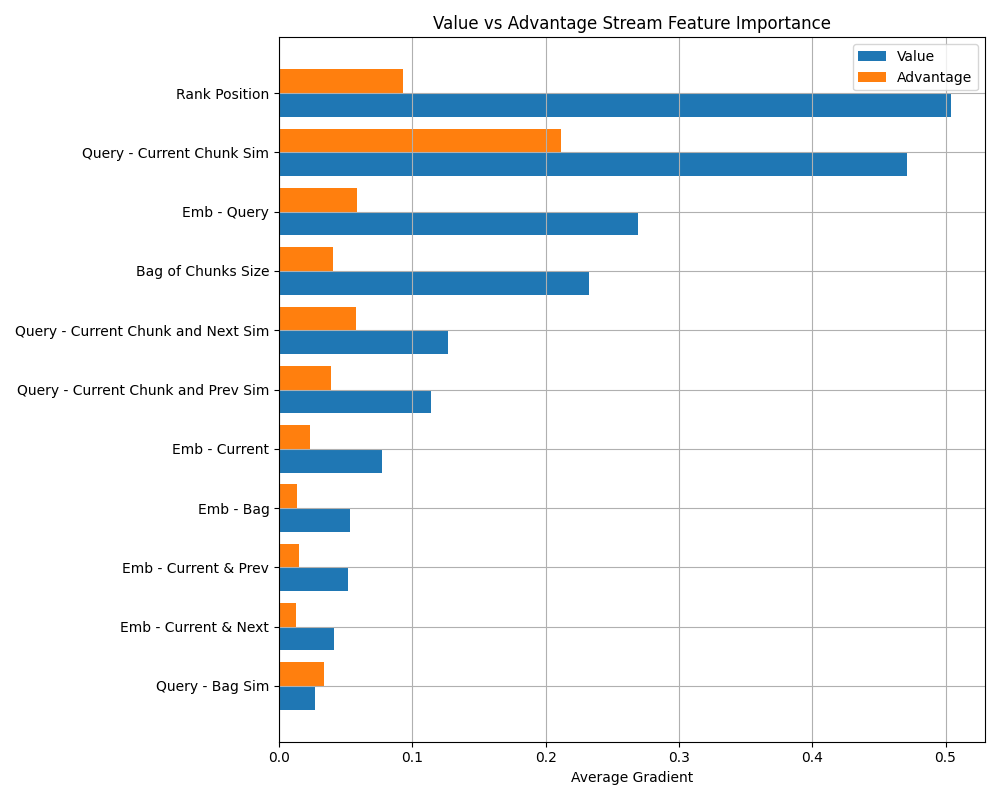
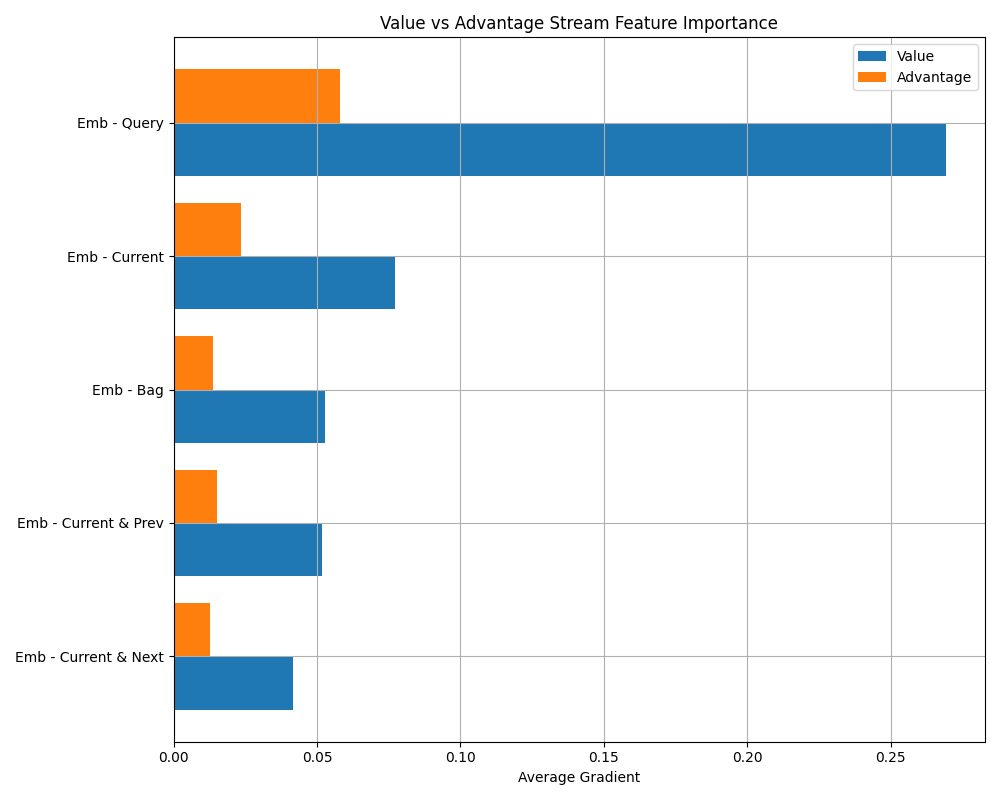
good boy

diff --git a/retrieval/retrieval_5_2_rl_test.py b/retrieval/retrieval_5_2_rl_test.py
@@ -19,8 +19,7 @@ now_str = datetime.now().strftime("%Y-%m-%d %H:%M:%S")
 random.seed(39)
 torch.manual_seed(39)
 
-
-def compute_stream_feature_importance(online_net, data, query_ids, device, max_exp_loops, n_samples=1000):
+def compute_stream_ablation_importance(online_net, data, query_ids, device, max_exp_loops, n_samples=1000):
     import os
     online_net.eval()
 
@@ -29,6 +28,166 @@ def compute_stream_feature_importance(online_net, data, query_ids, device, max_e
         "Bag of Chunks Size",
         "Query - Current Chunk Sim", "Query - Current Chunk and Next Sim", "Query - Bag Sim", "Query - Current Chunk and Prev Sim"
     ]
+    emb_group_names = ["Emb - Current", "Emb - Current & Next", "Emb - Current & Prev", "Emb - Query", "Emb - Bag"]
+
+    sample_n = min(len(query_ids), n_samples)
+    sampled_qids = random.sample(list(query_ids), sample_n)
+
+    # Per-feature accumulators for Q-drop and action-flip
+    n_meta = len(metadata_feature_names)
+    n_emb_groups = len(emb_group_names)
+
+    meta_q_drop = np.zeros(n_meta)
+    meta_flip   = np.zeros(n_meta)
+    emb_q_drop  = np.zeros(n_emb_groups)
+    emb_flip    = np.zeros(n_emb_groups)
+    total_states = 0
+
+    for qid in sampled_qids:
+        query = data.get_query_obj_from_id(qid)
+        page_id = query.get("page_id")
+        page = data.get_page_chunks_dict(page_id)
+        query_emb = torch.tensor(query.get("query")).to(device)
+        relevant_chunks = query.get("relevant_chunks")
+        ranked_chunks = data.cosine_sim_rank[str(qid)]
+        topic = Topic(query_emb, page, ranked_chunks, relevant_chunks, max_exp_loops)
+
+        state_emb, state_meta, _, _ = topic.get_initial_step()
+        state_emb = state_emb.to(device)
+        state_meta = state_meta.to(device)
+        done = False
+        truncated = False
+
+        while not done and not truncated:
+            with torch.no_grad():
+                # --- Baseline ---
+                q_base, _, _ = online_net(
+                    state_emb.unsqueeze(0), state_meta.unsqueeze(0), return_streams=True
+                )
+                q_base_vals  = q_base.squeeze(0)
+                action_base  = q_base_vals.argmax().item()
+                q_base_max   = q_base_vals[action_base].item()
+
+                # --- Ablate each metadata feature individually ---
+                for i in range(n_meta):
+                    meta_ablated = state_meta.clone()
+                    meta_ablated[i] = 0.0
+                    q_abl, _, _ = online_net(
+                        state_emb.unsqueeze(0), meta_ablated.unsqueeze(0), return_streams=True
+                    )
+                    q_abl_vals = q_abl.squeeze(0)
+                    action_abl = q_abl_vals.argmax().item()
+                    meta_q_drop[i] += q_base_max - q_abl_vals[action_base].item()
+                    meta_flip[i]   += int(action_abl != action_base)
+
+                # --- Ablate each embedding group individually ---
+                emb_len    = state_emb.numel()
+                groups     = n_emb_groups
+                assert emb_len % groups == 0, (
+                    f"Embedding length {emb_len} not divisible by {groups} groups."
+                )
+                group_size = emb_len // groups
+
+                for i in range(n_emb_groups):
+                    emb_ablated = state_emb.clone()
+                    emb_ablated[i * group_size : (i + 1) * group_size] = 0.0
+                    q_abl, _, _ = online_net(
+                        emb_ablated.unsqueeze(0), state_meta.unsqueeze(0), return_streams=True
+                    )
+                    q_abl_vals = q_abl.squeeze(0)
+                    action_abl = q_abl_vals.argmax().item()
+                    emb_q_drop[i] += q_base_max - q_abl_vals[action_base].item()
+                    emb_flip[i]   += int(action_abl != action_base)
+
+            total_states += 1
+
+            # --- Step environment using baseline action ---
+            if action_base == 0:
+                next_emb, next_meta, reward, done, truncated = topic.skip()
+            elif action_base == 1:
+                next_emb, next_meta, reward, done, truncated = topic.take_single()
+            elif action_base == 2:
+                next_emb, next_meta, reward, done, truncated = topic.take_double()
+            elif action_base == 3:
+                next_emb, next_meta, reward, done, truncated = topic.take_prev_double()
+            elif action_base == 4:
+                next_emb, next_meta, reward, done, truncated = topic.take_triple()
+
+            state_emb  = next_emb.to(device)
+            state_meta = next_meta.to(device)
+
+    if total_states == 0:
+        return
+
+    # --- Normalize ---
+    meta_q_drop_mean = meta_q_drop / total_states
+    meta_flip_rate   = meta_flip   / total_states
+    emb_q_drop_mean  = emb_q_drop  / total_states
+    emb_flip_rate    = emb_flip    / total_states
+
+    labels      = metadata_feature_names + emb_group_names
+    q_drop_all  = np.concatenate([meta_q_drop_mean, emb_q_drop_mean])
+    flip_all    = np.concatenate([meta_flip_rate,   emb_flip_rate])
+
+    # Sort by action flip rate (most impactful first)
+    sort_idx    = np.argsort(flip_all)
+    labels      = [labels[i] for i in sort_idx]
+    q_drop_all  = q_drop_all[sort_idx]
+    flip_all    = flip_all[sort_idx]
+
+    y      = np.arange(len(labels))
+    height = 0.4
+
+    os.makedirs("feature_importance", exist_ok=True)
+
+    fig, axes = plt.subplots(1, 2, figsize=(16, 8))
+
+    # --- Plot 1: Action Flip Rate ---
+    axes[0].barh(y, flip_all, height=height * 1.5, color="steelblue")
+    axes[0].set_yticks(y)
+    axes[0].set_yticklabels(labels)
+    axes[0].set_xlabel("Action Flip Rate")
+    axes[0].set_title("Feature Importance — Action Flip Rate\n(how often ablation changes the decision)")
+    axes[0].grid(True, axis="x")
+
+    # Separator line between metadata and emb groups
+    meta_count = len(metadata_feature_names)
+    sep_pos    = (sort_idx < meta_count).sum() - 0.5  # how many meta features ended up in lower portion
+    axes[0].axhline(y=sep_pos, color="red", linestyle="--", linewidth=1, alpha=0.6, label="meta / emb boundary")
+    axes[0].legend(fontsize=8)
+
+    # --- Plot 2: Q-Value Drop ---
+    axes[1].barh(y, q_drop_all, height=height * 1.5, color="darkorange")
+    axes[1].set_yticks(y)
+    axes[1].set_yticklabels(labels)
+    axes[1].set_xlabel("Mean Q-Value Drop")
+    axes[1].set_title("Feature Importance — Q-Value Drop\n(how much expected value degrades)")
+    axes[1].grid(True, axis="x")
+    axes[1].axhline(y=sep_pos, color="red", linestyle="--", linewidth=1, alpha=0.6, label="meta / emb boundary")
+    axes[1].legend(fontsize=8)
+
+    plt.suptitle(
+        f"Ablation Feature Importance  (n={total_states} states, {sample_n} queries)\n"
+        f"Metadata ablated per-feature | Embeddings ablated per-group",
+        fontsize=11
+    )
+    plt.tight_layout()
+    plt.savefig("feature_importance/ablation_importance.png", dpi=150)
+    plt.close()
+
+    # --- Console summary ---
+    print(f"\n=== Ablation Summary ({total_states} states) ===")
+    print(f"{'Feature':<45} {'Flip Rate':>10} {'Q-Drop':>10}")
+    print("-" * 67)
+    for lbl, flip, qdrop in zip(labels[::-1], flip_all[::-1], q_drop_all[::-1]):
+        tag = "[META]" if lbl in metadata_feature_names else "[EMB] "
+        print(f"{tag} {lbl:<38} {flip:>10.3f} {qdrop:>10.4f}")
+
+
+def compute_stream_feature_importance(online_net, data, query_ids, device, max_exp_loops, n_samples=1000):
+    import os
+    online_net.eval()
+
     emb_group_names = ["Emb - Current", "Emb - Current & Next", "Emb - Current & Prev", "Emb - Query", "Emb - Bag"]
 
     sample_n = min(len(query_ids), n_samples)
@@ -78,7 +237,6 @@ def compute_stream_feature_importance(online_net, data, query_ids, device, max_e
             v_scalar.backward(retain_graph=True)
 
             emb_grad_v = state_emb_var.grad.detach().squeeze(0).abs().cpu()
-            meta_grad_v = state_meta_var.grad.detach().squeeze(0).abs().cpu()
 
             # --- Advantage stream saliency (selected action only) ---
             a_scalar = a_stream[0, action]  # backprop through chosen action's advantage
@@ -90,19 +248,14 @@ def compute_stream_feature_importance(online_net, data, query_ids, device, max_e
             a_scalar.backward()
 
             emb_grad_a = state_emb_var.grad.detach().squeeze(0).abs().cpu()
-            meta_grad_a = state_meta_var.grad.detach().squeeze(0).abs().cpu()
 
             # --- Accumulate ---
             if emb_sum_v is None:
                 emb_sum_v = emb_grad_v.clone()
                 emb_sum_a = emb_grad_a.clone()
-                meta_sum_v = meta_grad_v.clone()
-                meta_sum_a = meta_grad_a.clone()
             else:
                 emb_sum_v += emb_grad_v
                 emb_sum_a += emb_grad_a
-                meta_sum_v += meta_grad_v
-                meta_sum_a += meta_grad_a
 
             total_states += 1
 
@@ -126,8 +279,6 @@ def compute_stream_feature_importance(online_net, data, query_ids, device, max_e
 
     emb_mean_v = emb_sum_v / total_states
     emb_mean_a = emb_sum_a / total_states
-    meta_mean_v = (meta_sum_v / total_states).numpy()
-    meta_mean_a = (meta_sum_a / total_states).numpy()
 
     emb_len = emb_mean_v.numel()
     groups = len(emb_group_names)
@@ -141,9 +292,9 @@ def compute_stream_feature_importance(online_net, data, query_ids, device, max_e
     emb_mean_v_groups = emb_mean_v.view(groups, group_size).mean(dim=1).numpy()
     emb_mean_a_groups = emb_mean_a.view(groups, group_size).mean(dim=1).numpy()
 
-    labels = metadata_feature_names + emb_group_names
-    value_scores = np.concatenate([meta_mean_v, emb_mean_v_groups])
-    adv_scores = np.concatenate([meta_mean_a, emb_mean_a_groups])
+    labels = emb_group_names
+    value_scores = emb_mean_v_groups
+    adv_scores =  emb_mean_a_groups
 
     sort_idx = np.argsort(value_scores)
     labels = [labels[i] for i in sort_idx]
@@ -262,21 +413,21 @@ def test():
 
     # logging.basicConfig(filename='rl_testing.log', level=logging.INFO, format='%(asctime)s - %(message)s', filemode="w")
 
-    # pages_path_test = f"data_3_embed/pages_chunked_emb_test.json"
-    # relevant_path_test = f"data_3_embed/relevant_chunks_emb_test.json"
-    # cosine_sim_path_test = "data_4_cos_sim/cosine_sim_rank_threshold_only_single_test.json"
+    pages_path_test = f"data_3_embed/pages_chunked_emb_test.json"
+    relevant_path_test = f"data_3_embed/relevant_chunks_emb_test.json"
+    cosine_sim_path_test = "data_4_cos_sim/cosine_sim_rank_threshold_only_single_test.json"
 
-    # data_test = Data(pages_path_test, relevant_path_test, cosine_sim_path_test)
-    # data_test.load_pages()
-    # data_test.load_relevant()
-    # data_test.load_cosine_sim()
+    data_test = Data(pages_path_test, relevant_path_test, cosine_sim_path_test)
+    data_test.load_pages()
+    data_test.load_relevant()
+    data_test.load_cosine_sim()
 
     # Set device
     device = torch.device("mps" if torch.backends.mps.is_available() else "cpu")
     print(f"Using device: {device}")
 
     model = DuelingDQN(metadata_dim = 6, action_dim = 5, proj_dim = 512, dropout_p = 0).to(device)
-    model.load_state_dict(torch.load("models/rl-chunk-retriever_BEEEEEST.pt", map_location="cpu")) #rl-chunk-retriever copy
+    model.load_state_dict(torch.load("models/rl-chunk-retriever_BEEEEEST copy.pt", map_location="cpu")) #rl-chunk-retriever copy
     model.eval()
 
     # avg_val_reward, avg_val_f1_score, avg_val_recall, avg_val_precision, results = evaluate(
@@ -295,16 +446,19 @@ def test():
 
         #############
 
-    pages_path = "data_3_embed/pages_chunked_emb_train.json"
-    relevant_path = "data_3_embed/relevant_chunks_emb_train.json"
-    cosine_sim_path = "data_4_cos_sim/cosine_sim_rank_threshold_only_single_train.json" #_train
+    # pages_path = "data_3_embed/pages_chunked_emb_train.json"
+    # relevant_path = "data_3_embed/relevant_chunks_emb_train.json"
+    # cosine_sim_path = "data_4_cos_sim/cosine_sim_rank_threshold_only_single_train.json" #_train
 
-    data_train = Data(pages_path, relevant_path, cosine_sim_path)
-    data_train.load_pages()
-    data_train.load_relevant()
-    data_train.load_cosine_sim()
+    # data_train = Data(pages_path, relevant_path, cosine_sim_path)
+    # data_train.load_pages()
+    # data_train.load_relevant()
+    # data_train.load_cosine_sim()
 
-    compute_stream_feature_importance(
-        model, data_train, data_train.query_ids, device, max_exp_loops = 1, n_samples=100 #  + validation_set
+    # compute_stream_feature_importance(
+    #     model, data_train, data_train.query_ids, device, max_exp_loops = 1, n_samples=100 #  + validation_set
+    # )
+
+    compute_stream_ablation_importance(
+        model, data_test, data_test.query_ids, device, max_exp_loops = 1, n_samples=100 #  + validation_set
     )
-

diff --git a/main.py b/main.py
@@ -19,7 +19,7 @@ def main():
     #cos_sim()
 
     # Traing of RL Model
-    train()
+    #train()
 
     # Get test data
     # extract('test')
@@ -27,7 +27,7 @@ def main():
     # embed('test')
 
     # Evaluate RL model on test data using trained model
-    #test()
+    test()
 
     #analyze()
 
